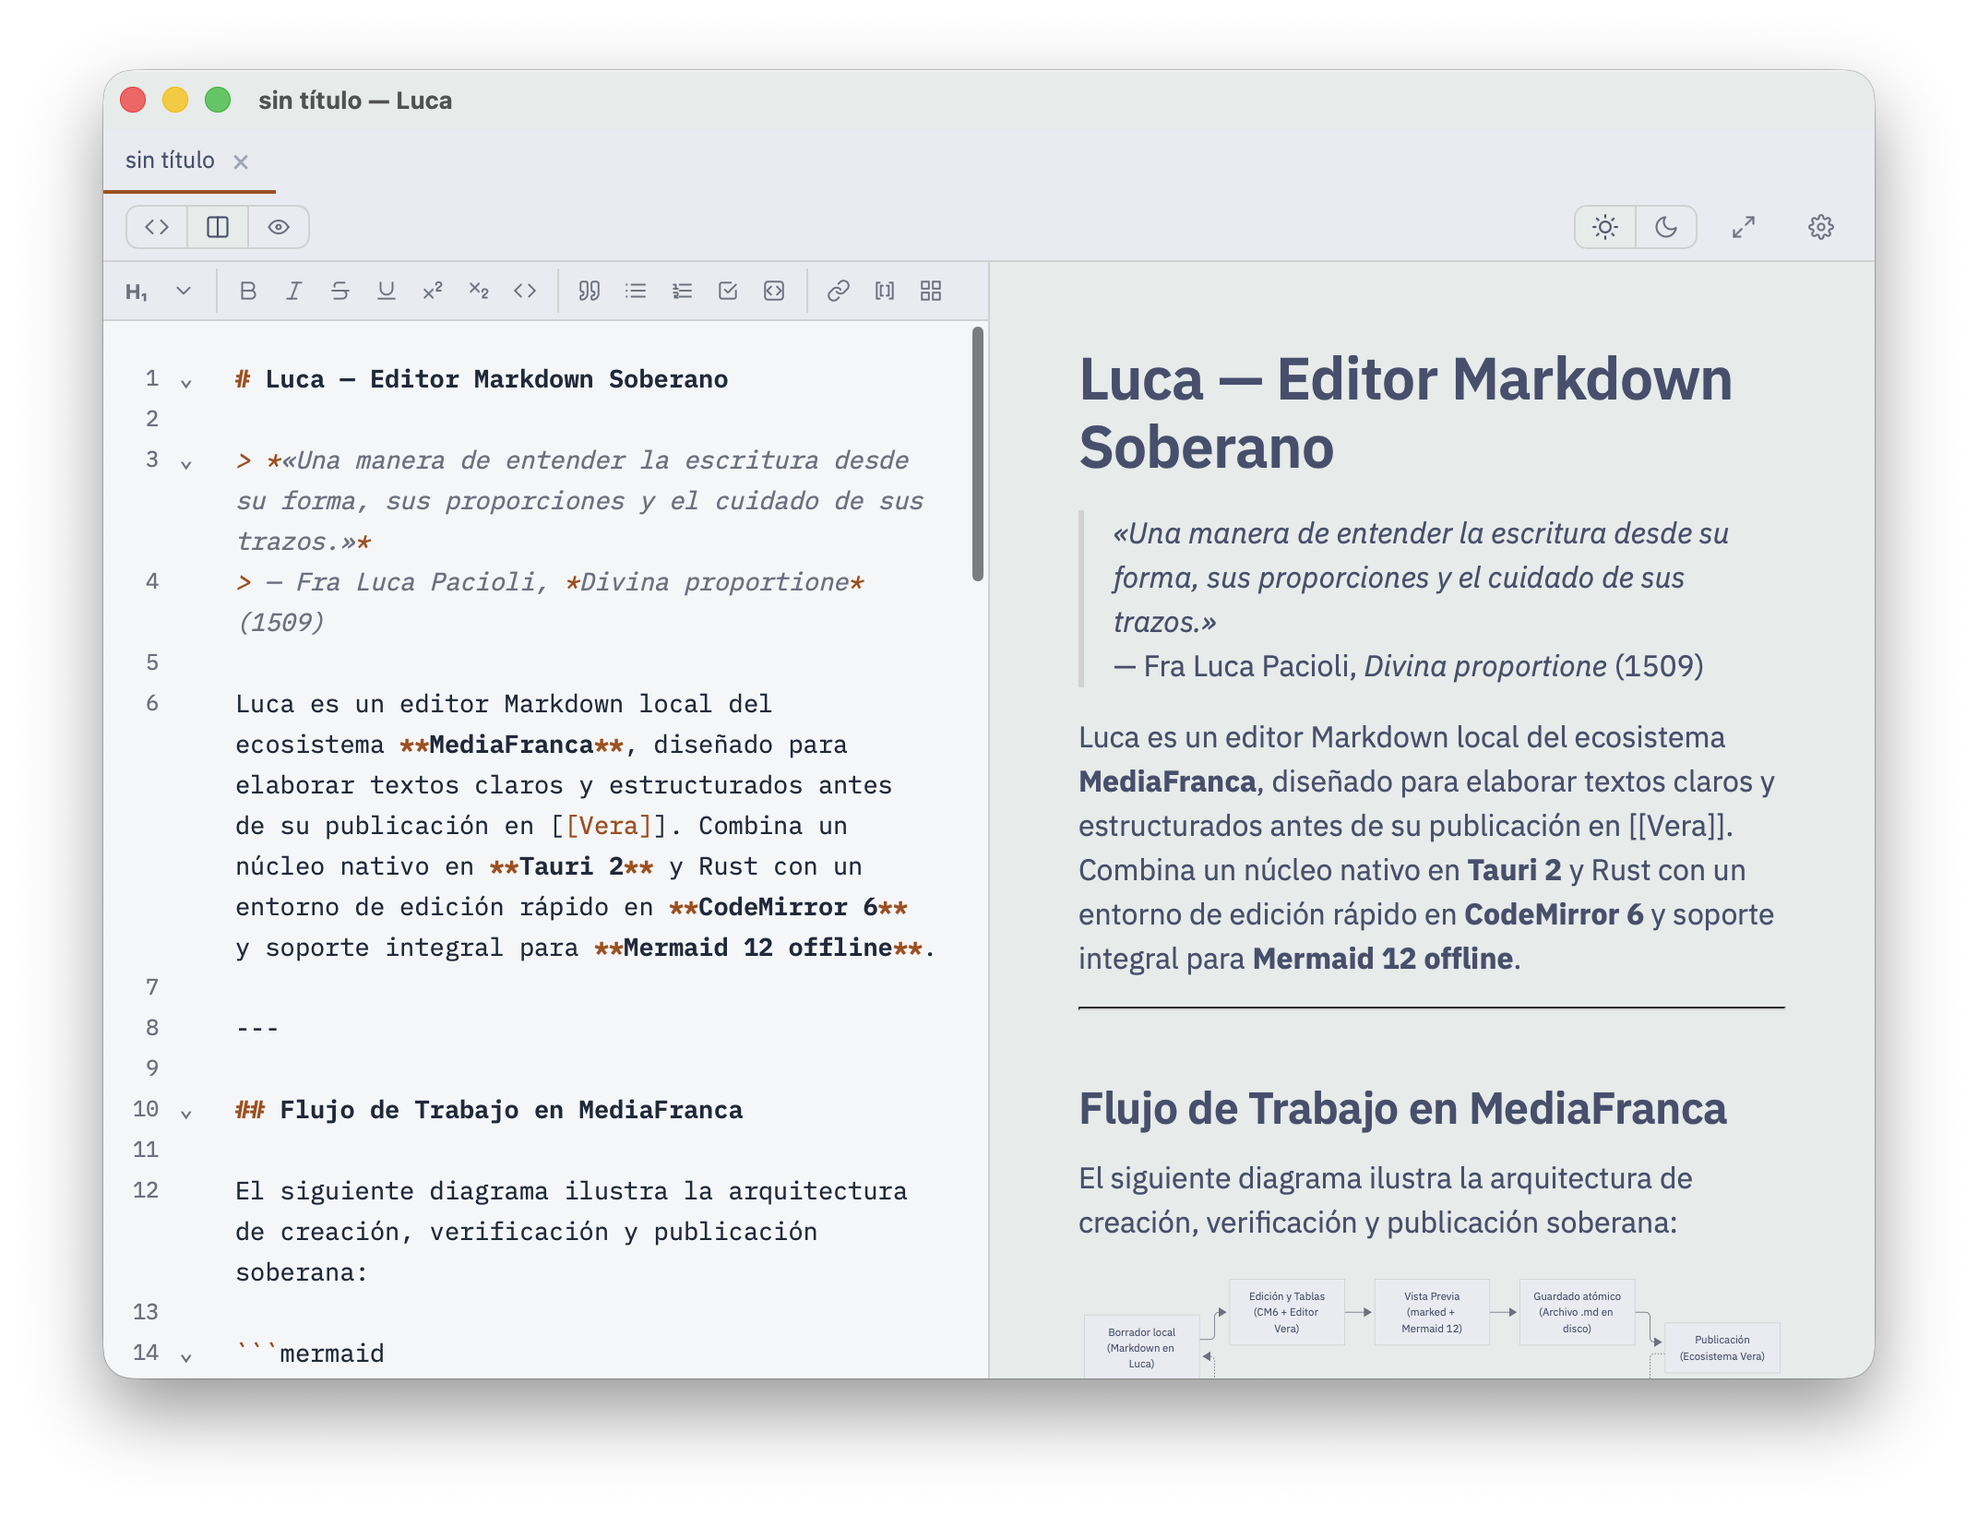
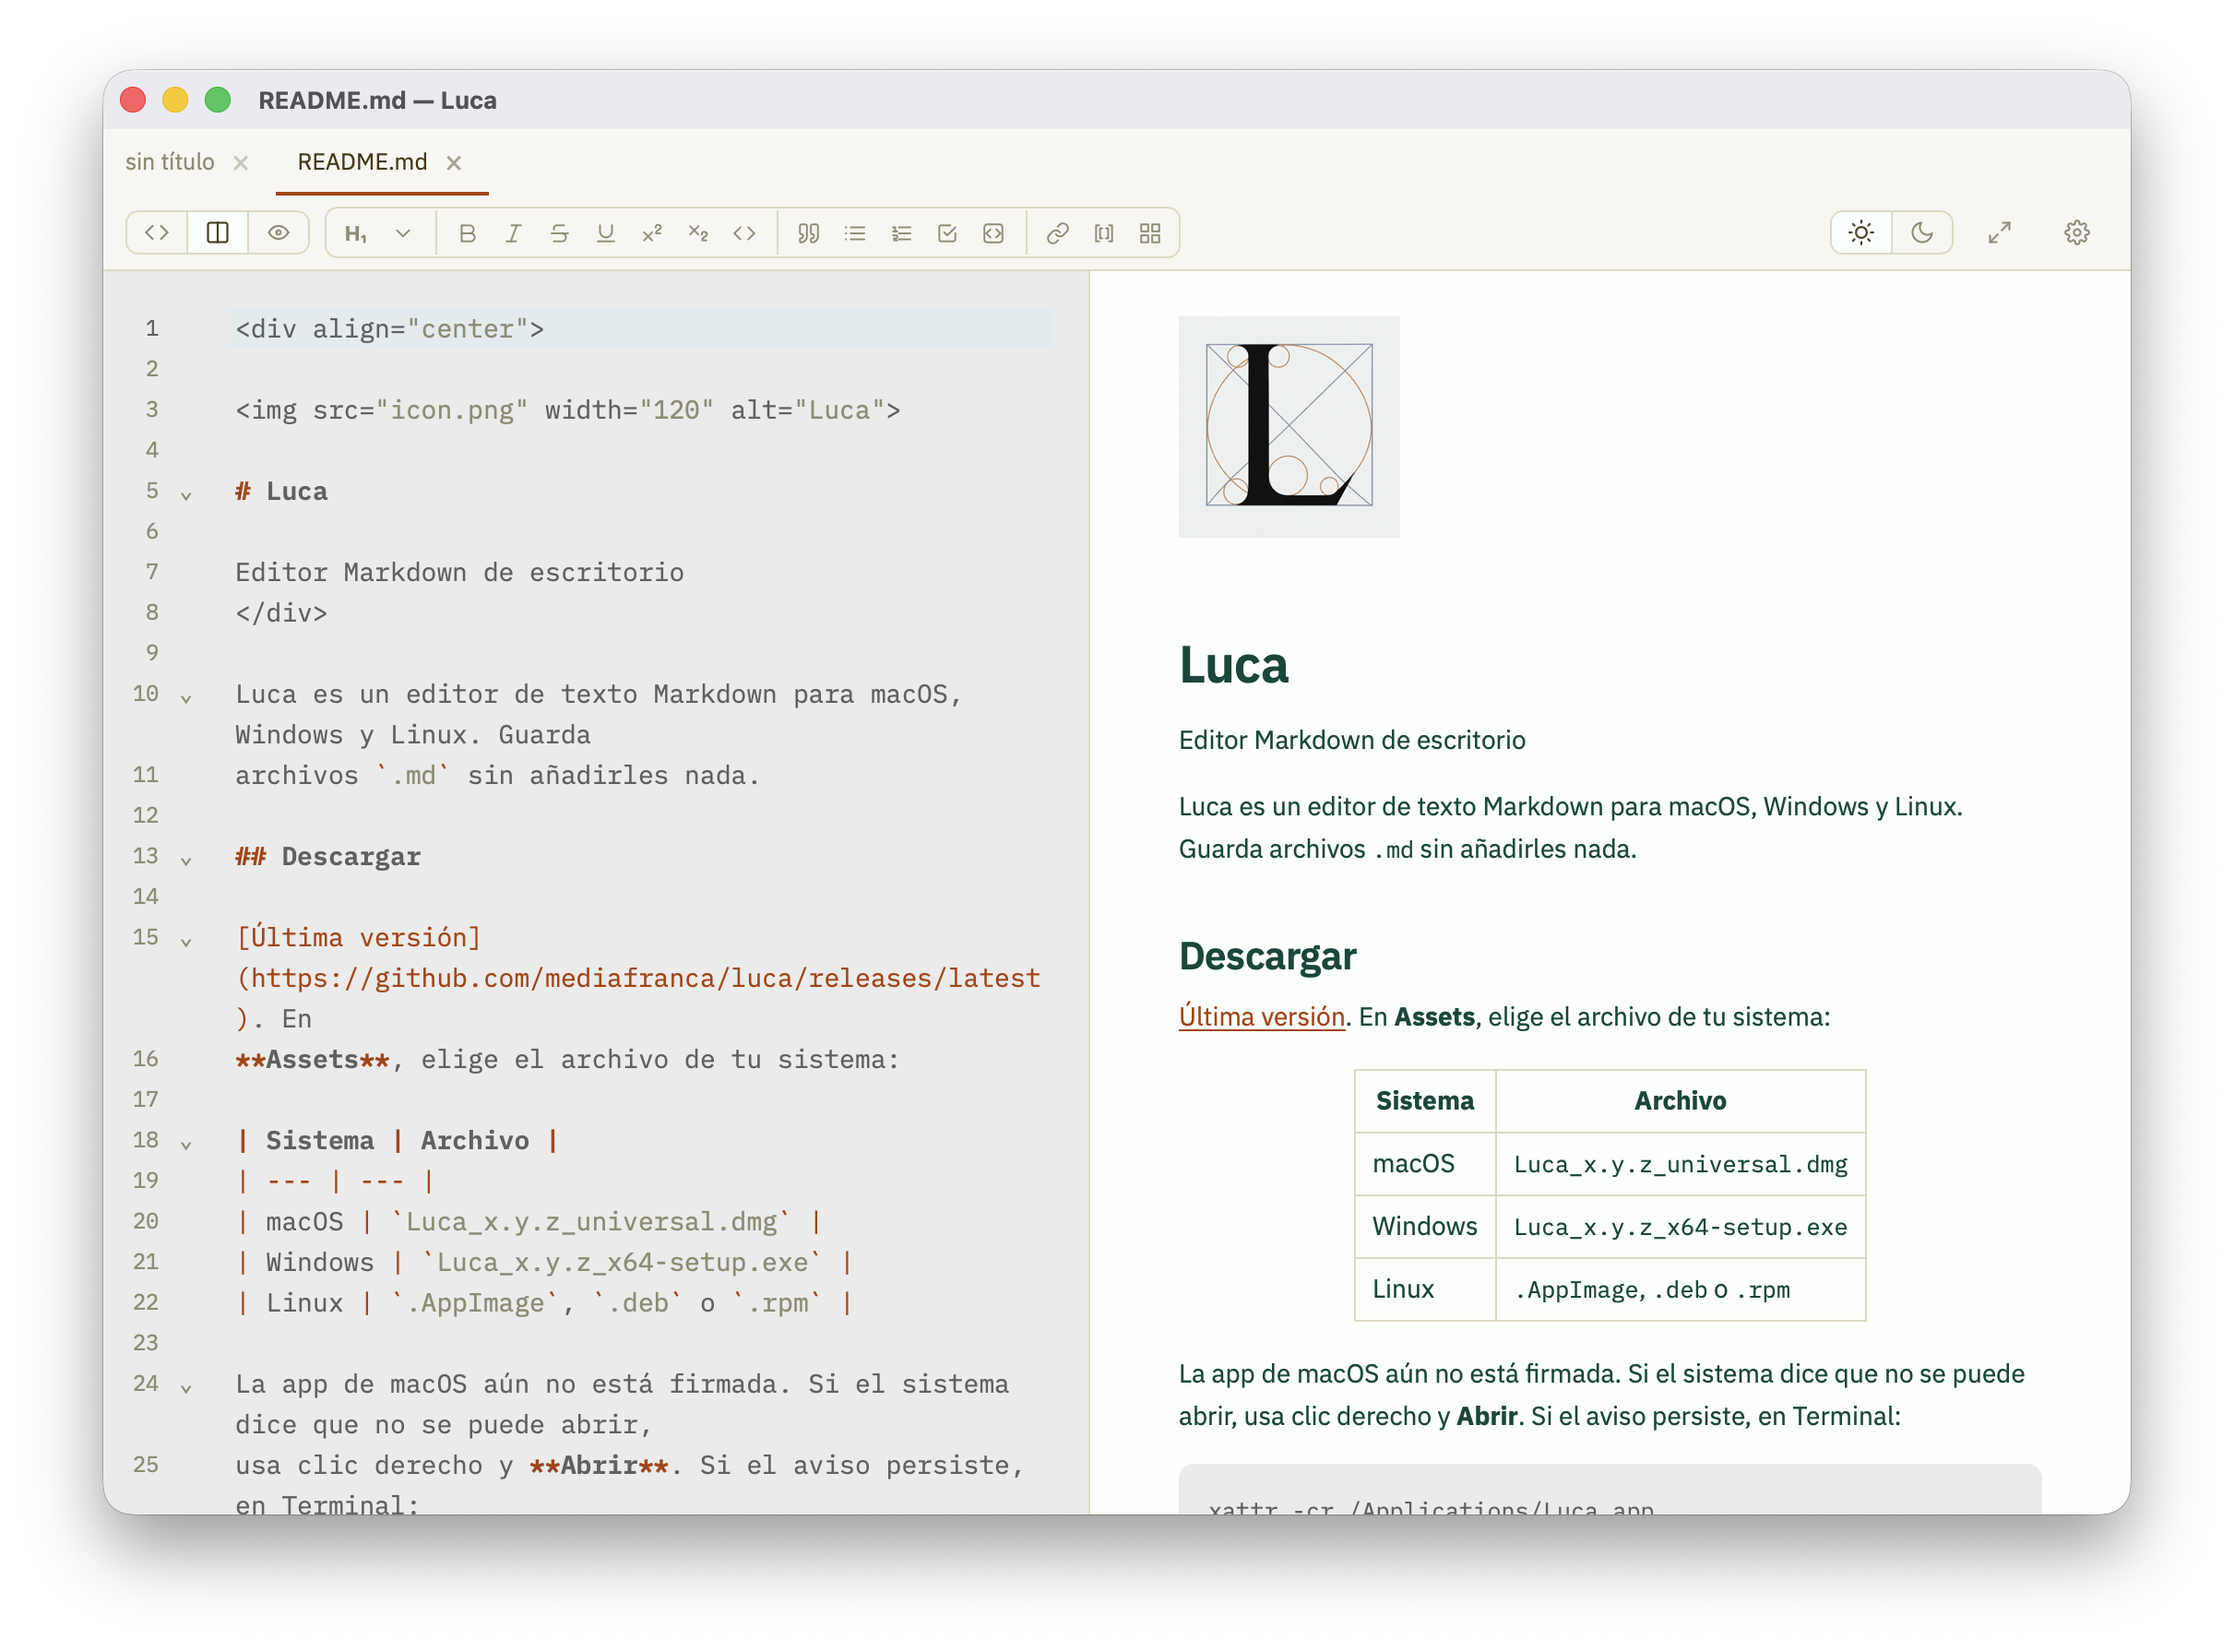
mensaje claro

Changed region(s): [[0.0312, 0.0311, 0.9688, 0.9318], [0.5312, 0.1864, 0.875, 0.3106], [0.8125, 0.1242, 0.875, 0.1553]]

diff --git a/ui/index.html b/ui/index.html
@@ -298,19 +298,6 @@
   .prefs-panel h2 { margin:0 0 14px; font-size:1.15rem; font-weight:600; color:var(--text);
     cursor:move; user-select:none; -webkit-user-select:none; }
   
-  .prefs-scheme-selector {
-    display:flex; align-items:center; justify-content:space-between; margin-bottom:14px;
-    padding:8px 12px; border:1px solid var(--rule); border-radius:8px; background:var(--bg);
-  }
-  .prefs-scheme-selector span { font-size:12.5px; color:var(--text); font-weight:500; }
-  .prefs-scheme-options { display:inline-flex; border:1px solid var(--rule); border-radius:6px; overflow:hidden; }
-  .prefs-scheme-btn {
-    border:0; background:transparent; color:var(--text-dim); padding:4px 10px; font-size:12px;
-    cursor:pointer; display:inline-flex; align-items:center; gap:4px;
-  }
-  .prefs-scheme-btn + .prefs-scheme-btn { border-left:1px solid var(--rule); }
-  .prefs-scheme-btn.active { background:var(--bg-raised); color:var(--text); font-weight:600; }
-  .prefs-scheme-btn .icon { width:13px; height:13px; }
 
   .prefs-tabs { display:flex; border-bottom:1px solid var(--rule); margin-bottom:14px; gap:4px; }
   .prefs-tab-btn {
@@ -347,6 +334,8 @@
   .prefs-actions button:hover { border-color:var(--text-dim); }
 
   /* ---- Impresión / Exportar PDF: sólo la vista previa del documento activo ---- */
+  /* Márgenes de página explícitos: el diálogo de impresión del webview parte de cero. */
+  @page { margin:20mm 18mm; }
   @media print {
     #topbar, #editors, #prefs, .table-modal, .preview-edit-table { display:none !important; }
     body { display:block; height:auto; background:#fff; color:#000; }
@@ -376,6 +365,7 @@
         <button type="button" data-theme-btn="light" title="Modo claro" aria-label="Modo claro"></button>
         <button type="button" data-theme-btn="dark" title="Modo oscuro" aria-label="Modo oscuro"></button>
       </div>
+      <button type="button" id="pdfBtn" class="topbar-btn" title="Exportar a PDF · ⌘E" aria-label="Exportar a PDF"></button>
       <button type="button" id="zen" class="topbar-btn" title="Modo zen (pantalla completa) · ⌘⇧Z" aria-label="Modo zen"></button>
       <button type="button" id="prefsBtn" class="topbar-btn" title="Configuración de diseño y tokens · ⌘," aria-label="Configuración"></button>
     </div>
@@ -388,15 +378,6 @@
   <div id="prefs" hidden>
     <div class="prefs-panel">
       <h2>Preferencias · Diseño</h2>
-
-      <div class="prefs-scheme-selector">
-        <span>Esquema activo:</span>
-        <div class="prefs-scheme-options">
-          <button type="button" class="prefs-scheme-btn" data-scheme="system">Sistema</button>
-          <button type="button" class="prefs-scheme-btn" data-scheme="light">Claro</button>
-          <button type="button" class="prefs-scheme-btn" data-scheme="dark">Oscuro</button>
-        </div>
-      </div>
 
       <div class="prefs-tabs">
         <button type="button" class="prefs-tab-btn active" data-tab="general">Generales</button>

diff --git a/ui/app.js b/ui/app.js
@@ -527,6 +527,12 @@ function initTopbarButtons() {
     zenBtn.addEventListener("click", () => toggleZen());
   }
 
+  const pdfBtn = document.getElementById("pdfBtn");
+  if (pdfBtn) {
+    pdfBtn.innerHTML = icon("book-down");
+    pdfBtn.addEventListener("click", () => exportPdf());
+  }
+
   const prefsBtn = document.getElementById("prefsBtn");
   if (prefsBtn) {
     prefsBtn.innerHTML = icon("settings");
@@ -864,10 +870,6 @@ function buildTokenForms() {
   // 3. Formulario Tema Oscuro
   buildColorSection(tokenFormDark, "dark");
 
-  // Actualizar botones de esquema activo
-  document.querySelectorAll(".prefs-scheme-btn").forEach((btn) => {
-    btn.classList.toggle("active", btn.dataset.scheme === tokensState.scheme);
-  });
 }
 
 // Conectar pestañas del panel de preferencias
@@ -882,18 +884,6 @@ document.querySelectorAll(".prefs-tab-btn").forEach((btn) => {
     if (tabGen) tabGen.hidden = target !== "general";
     if (tabLight) tabLight.hidden = target !== "light";
     if (tabDark) tabDark.hidden = target !== "dark";
-  });
-});
-
-// Selector de esquema de la app
-document.querySelectorAll(".prefs-scheme-btn").forEach((btn) => {
-  btn.addEventListener("click", () => {
-    tokensState.scheme = btn.dataset.scheme;
-    saveTokens();
-    applyTokens();
-    document.querySelectorAll(".prefs-scheme-btn").forEach((b) => {
-      b.classList.toggle("active", b === btn);
-    });
   });
 });
 

diff --git a/ui/icons.js b/ui/icons.js
@@ -46,6 +46,7 @@ const SHAPES = {
     '<line x1="1" y1="12" x2="3" y2="12"/><line x1="21" y1="12" x2="23" y2="12"/><line x1="4.22" y1="19.78" x2="5.64" y2="18.36"/>' +
     '<line x1="18.36" y1="5.64" x2="19.78" y2="4.22"/>',
   moon: '<path d="M21 12.79A9 9 0 1 1 11.21 3 7 7 0 0 0 21 12.79z"/>',
+  'book-down': '<path d="M12 13V7"/><path d="M4 19.5v-15A2.5 2.5 0 0 1 6.5 2H19a1 1 0 0 1 1 1v18a1 1 0 0 1-1 1H6.5a1 1 0 0 1 0-5H20"/><path d="m9 10 3 3 3-3"/>',
   eye: '<path d="M10 12a2 2 0 1 0 4 0a2 2 0 0 0 -4 0"/><path d="M21 12c-2.4 4 -5.4 6 -9 6c-3.6 0 -6.6 -2 -9 -6c2.4 -4 5.4 -6 9 -6c3.6 0 6.6 2 9 6"/>',
   x: '<line x1="18" y1="6" x2="6" y2="18"/><line x1="6" y1="6" x2="18" y2="18"/>',
   check: '<polyline points="20 6 9 17 4 12"/>',

diff --git a/README.md b/README.md
@@ -1,136 +1,82 @@
 <div align="center">
 
-<img src="icon.png" width="140" alt="Luca">
+<img src="icon.png" width="120" alt="Luca">
 
 # Luca
 
-**Un editor Markdown completo, rápido y soberano**
+Editor Markdown de escritorio
 </div>
 
-Luca es un editor de texto Markdown para el escritorio. Escribes en texto
-plano, ves el resultado al instante y el archivo es tuyo: un `.md` corriente
-que puedes abrir con cualquier otra herramienta, hoy o dentro de veinte años.
-No hay cuenta, no hay nube, no hay formato propietario.
+Luca es un editor de texto Markdown para macOS, Windows y Linux. Guarda
+archivos `.md` sin añadirles nada.
 
 ## Descargar
 
-Luca funciona en macOS, Windows y Linux. Los instaladores están en la página de
-versiones de GitHub:
+[Última versión](https://github.com/mediafranca/luca/releases/latest). En
+**Assets**, elige el archivo de tu sistema:
 
-**[Descargar la última versión →](https://github.com/mediafranca/luca/releases/latest)**
+| Sistema | Archivo |
+| --- | --- |
+| macOS | `Luca_x.y.z_universal.dmg` |
+| Windows | `Luca_x.y.z_x64-setup.exe` |
+| Linux | `.AppImage`, `.deb` o `.rpm` |
 
-En esa página, baja hasta **Assets** y elige el archivo de tu sistema:
-
-| Sistema | Archivo | Después de descargar |
-| --- | --- | --- |
-| macOS (Apple Silicon e Intel, el mismo archivo) | `Luca_x.y.z_universal.dmg` | Abre el `.dmg` y arrastra Luca a Aplicaciones. |
-| Windows | `Luca_x.y.z_x64-setup.exe` (o el `.msi`) | Ejecuta el instalador. |
-| Linux | `.AppImage` (cualquier distribución), `.deb` (Debian, Ubuntu) o `.rpm` (Fedora) | Dale permiso de ejecución al AppImage o instala el paquete. |
-
-**Si macOS dice que Luca «está dañada» o «no se puede abrir».** Luca todavía
-no está firmada con un certificado de Apple, y macOS desconfía de las apps
-descargadas sin firma. No está dañada. Prueba primero con clic derecho sobre
-Luca en Aplicaciones y **Abrir**. Si el aviso sigue, abre la app Terminal, pega
-esta línea y pulsa Intro:
+La app de macOS aún no está firmada. Si el sistema dice que no se puede abrir,
+usa clic derecho y **Abrir**. Si el aviso persiste, en Terminal:
 
 ```bash
 xattr -cr /Applications/Luca.app
 ```
 
-A partir de ahí Luca abre con normalidad. Windows puede mostrar un aviso
-parecido de SmartScreen: pulsa «Más información» y luego «Ejecutar de todas formas».
-
 ## Qué hace
 
-- **Tres vistas**: código Markdown, vista dividida y texto renderizado
-  (`⌘1`, `⌘2`, `⌘3`). En la vista dividida puedes arrastrar el divisor y la
-  vista previa sigue al cursor.
-- **Edición sobre el texto renderizado**: en la vista renderizada pulsas un
-  párrafo, un título, una tabla o un diagrama y lo editas ahí mismo, con la
-  misma tipografía. El archivo sigue siendo Markdown puro.
-- **Modo zen** a pantalla completa, sin barras (`⌘⇧Z`, `Esc` para salir).
-- **Barra de herramientas**: encabezados, negrita, cursiva, listas, citas,
-  enlaces, bloques de código y un editor visual de tablas que acepta pegar
-  desde una hoja de cálculo.
-- **Diagramas Mermaid** renderizados sin conexión (flujos, secuencias, ELK,
-  ZenUML). El diagrama se guarda como texto, nunca como imagen.
-- **Varios documentos en pestañas**, guardado seguro (nunca pisa a medias un
-  archivo) y aviso si otro programa cambió el archivo mientras lo editabas.
-- **Exportar a PDF** desde el menú Archivo.
-- **Tipografía y colores configurables** (`⌘,`), con modo claro y oscuro.
-- Se registra como editor de archivos `.md`, así que «Abrir con…» lo encuentra.
+- Vista de código, vista dividida y vista renderizada (`⌘1`, `⌘2`, `⌘3`).
+- En la vista renderizada se puede editar cada bloque en su lugar.
+- Modo zen a pantalla completa (`⌘⇧Z`).
+- Barra de formato y editor de tablas.
+- Diagramas Mermaid, sin conexión.
+- Varios documentos en pestañas. Guardado seguro y aviso si otro programa
+  cambió el archivo.
+- Exportar a PDF.
+- Tipografía y colores configurables (`⌘,`), claro y oscuro.
 
-![Captura de pantalla de Luca](./assets/luca-screenshot.png)
+![Luca](./assets/luca-screenshot.png)
 
-## El nombre
+## Desde el código
 
-Luca toma su nombre de Luca Pacioli, fraile franciscano y matemático del
-Renacimiento. En [*Divina proportione*](https://archive.org/download/divinaproportion00paci/divinaproportion00paci.pdf)
-(1509) incluyó un estudio sobre la construcción geométrica de las letras
-capitales: una manera de entender la escritura desde su forma, sus proporciones
-y el cuidado de sus trazos. El ícono de Luca es su «L». La intención de diseño
-es la misma: un entorno claro y proporcionado cuya forma acompañe el trabajo de
-quien escribe.
-
-## Correr desde el código
-
-Necesitas [Rust](https://rustup.rs) con la CLI de Tauri 2 y [Node.js](https://nodejs.org).
+Requiere [Rust](https://rustup.rs), la CLI de Tauri 2 y [Node.js](https://nodejs.org).
 
 ```bash
 npm install
 cargo tauri dev
 ```
 
-Para empaquetar la app del sistema actual:
+- `ui/`: interfaz (HTML, CSS y JavaScript; CodeMirror 6).
+- `src-tauri/`: aplicación nativa (Rust, Tauri 2).
+- `specs/`: especificación del comportamiento en [Allium](https://github.com/mediafranca).
+- `.github/workflows/release.yml`: compila y publica los instaladores al etiquetar `vX.Y.Z`.
 
-```bash
-cargo tauri build
-```
+Contribuciones: ver [CONTRIBUTING.md](CONTRIBUTING.md).
 
-Los instaladores de la página de versiones los compila GitHub Actions
-(`.github/workflows/release.yml`) cada vez que se publica una etiqueta `vX.Y.Z`.
-El de macOS es un binario universal: corre nativo en Apple Silicon y en Intel.
+## Nombre
 
-## Estructura
+Por Luca Pacioli, que en *Divina proportione* (1509) estudió la construcción
+geométrica de las letras. El ícono es su «L».
 
-- `ui/` — interfaz (HTML/CSS/JS; CodeMirror 6 empaquetado con esbuild).
-- `src-tauri/` — cáscara nativa (Rust + Tauri 2).
-- `specs/` — especificación [Allium](https://github.com/mediafranca) del comportamiento.
-- `scripts/vendor.mjs` — vendoriza mermaid/marked y empaqueta CodeMirror en `ui/vendor/`.
-- `icon.png` — fuente del ícono; regenerar el set con `cargo tauri icon icon.png`.
+## Vera
 
-## Especificación (Allium)
+Luca forma parte de [MediaFranca](https://github.com/mediafranca) y es el editor
+externo de [Vera](https://github.com/mediafranca/vera). Vera abre un `.md` en
+Luca; Luca lo guarda tal cual. Luca funciona igual sin Vera.
 
-El comportamiento de Luca está descrito en `specs/*.allium`:
+## Licencia
 
-- `luca.allium` — módulo raíz.
-- `documento.allium` — documentos, pestañas y ciclo de vida.
-- `vista-previa.allium` — editor y vista previa.
-- `edicion-renderizada.allium` — edición por bloques sobre el texto renderizado.
-- `vera.allium` — convivencia con Vera.
-
-Validar con `allium check specs/`.
-
-## Contribuir
-
-Las contribuciones son bienvenidas: ver [CONTRIBUTING.md](CONTRIBUTING.md).
-
-## Luca y Vera
-
-Luca nace dentro de [MediaFranca](https://github.com/mediafranca) y es el editor
-externo predeterminado de [Vera](https://github.com/mediafranca/vera). Esa
-relación no cambia nada de lo anterior: Vera abre un `.md` en Luca por «Abrir
-con…», Luca lo guarda tal cual, sin inyectar metadatos ni normalizar nada, y
-nunca borra ni toca el grafo de Vera. Luca sirve igual sin Vera.
+Obra de [Herbert Spencer González](https://github.com/hspencer), bajo la
+[EUPL 1.2](LICENSE).
 
 <div align="center">
-<img src="assets/raised-fist.svg" width="70" alt="Puño alzado"><br>Aplicación soberana
-<br><sub>Puño alzado: Eugenio Hansen, OFS — trabajo propio,
+<img src="assets/raised-fist.svg" width="56" alt="Puño alzado"><br>
+<sub>Puño alzado: Eugenio Hansen, OFS,
 <a href="https://creativecommons.org/licenses/by-sa/4.0/">CC BY-SA 4.0</a>, vía
 <a href="https://commons.wikimedia.org/w/index.php?curid=65787095">Wikimedia Commons</a>.</sub>
 </div>
-
-## Autoría y licencia
-
-Luca es obra de [Herbert Spencer González](https://github.com/hspencer).
-Publicado bajo la [Licencia Pública de la Unión Europea (EUPL 1.2)](LICENSE).
